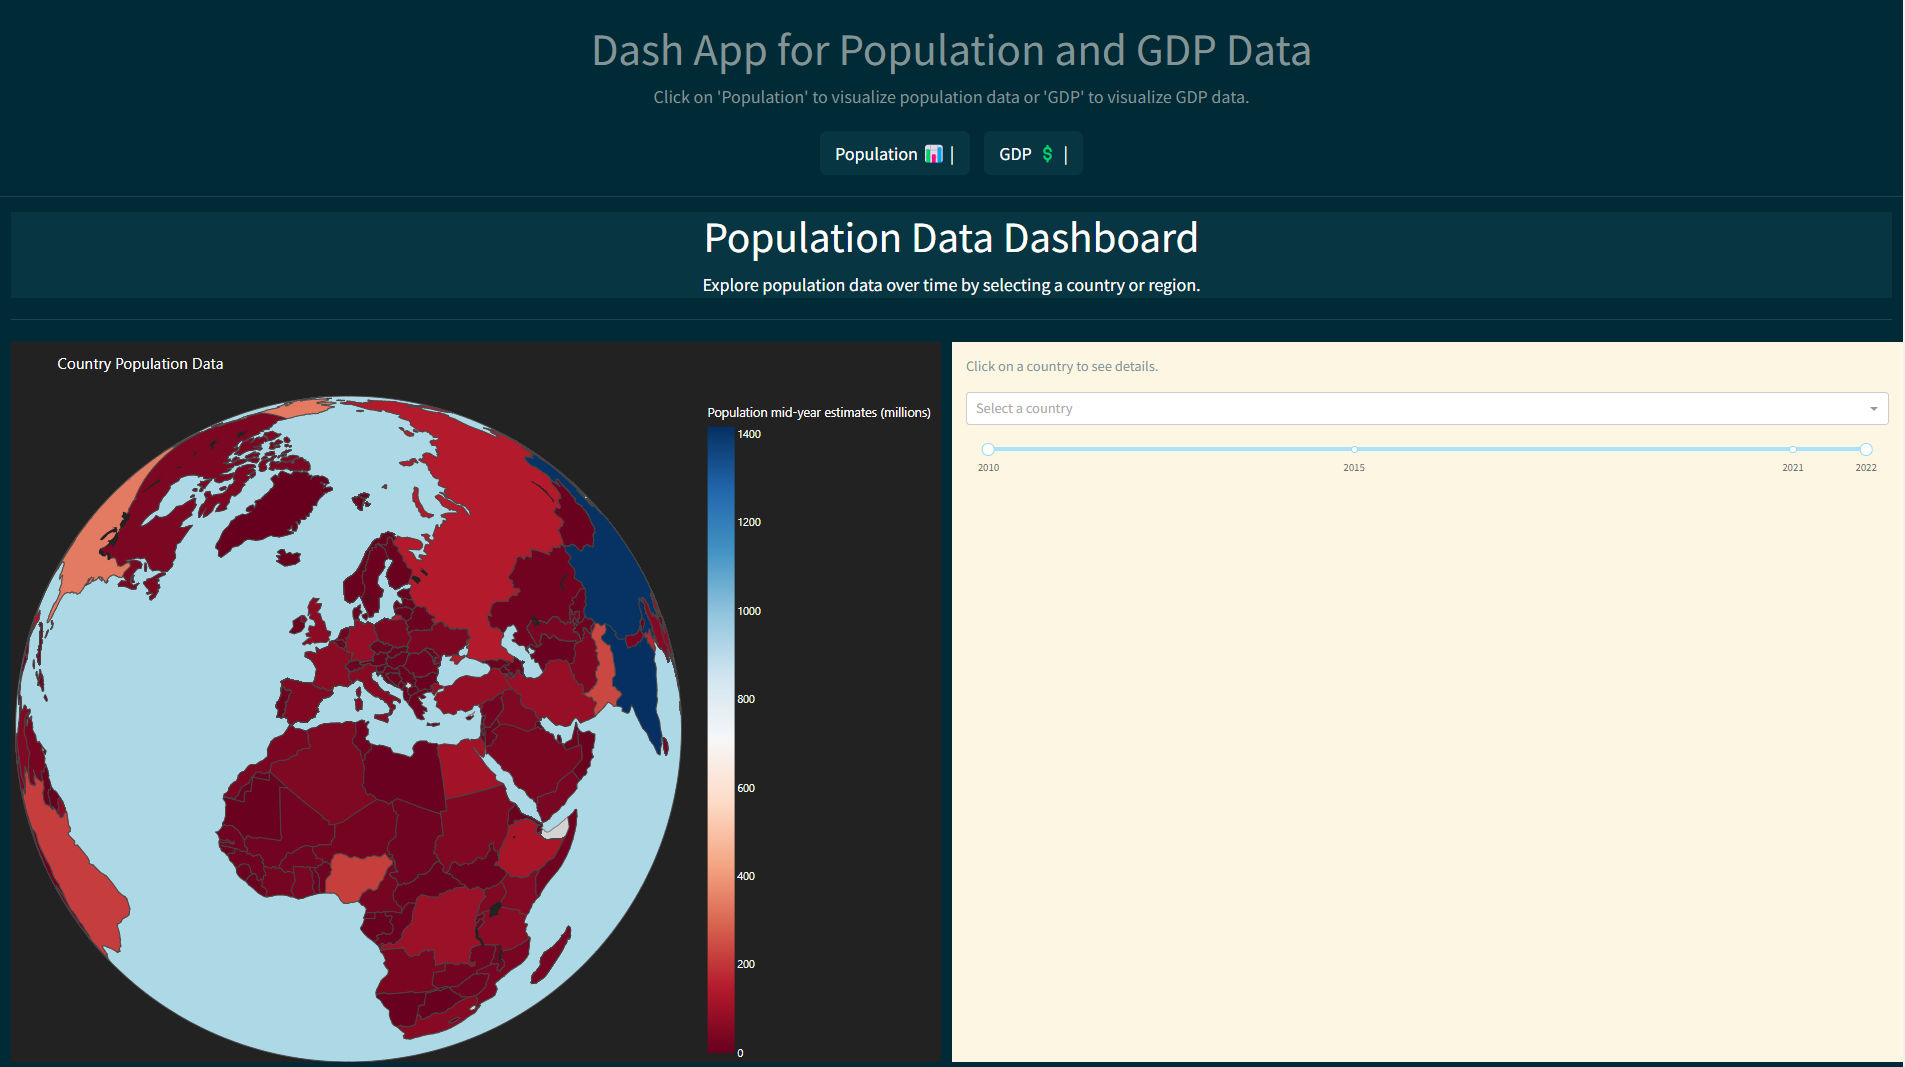
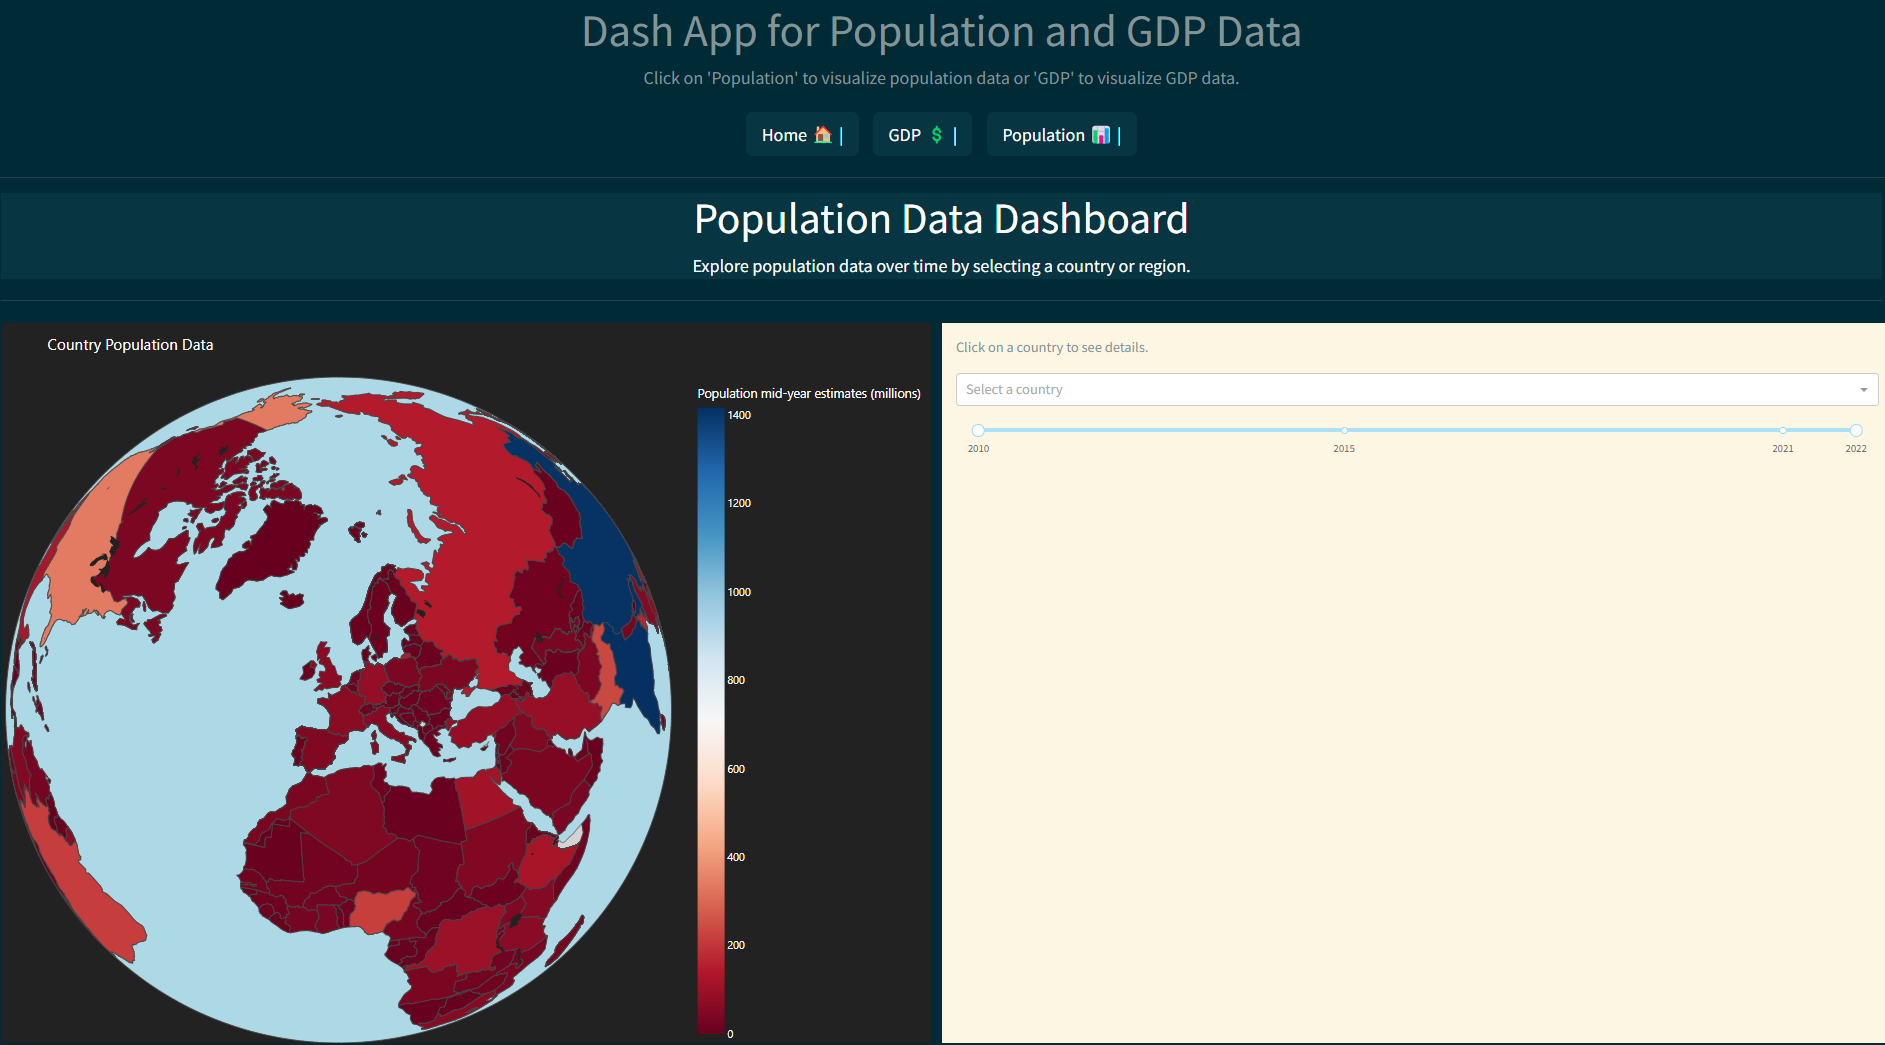
Add a Home Page

Changed region(s): [[0.0, 0.3062, 1.0, 1.0], [0.3077, 0.0, 0.7077, 0.1531], [0.3692, 0.1837, 0.6462, 0.2756]]

diff --git a/pages/Home.py b/pages/Home.py
@@ -1,0 +1,113 @@
+import dash
+from dash import dcc, html
+
+# Register the page
+dash.register_page(__name__, path='/', name='Home 🏠')
+
+layout = html.Div(
+    className='container-fluid',
+    children=[
+        html.Div(
+            className='jumbotron jumbotron-fluid bg-dark text-light',
+            children=[
+                html.Div(
+                    className='container-fluid',
+                    children=[
+                        html.H1(
+                            "Welcome to the Population and GDP Dashboards",
+                            className='display-2 mb-4',
+                            style={'fontWeight': 'bold', 'fontSize': '4rem'}
+                        ),
+                        html.P(
+                            "Explore the interactive dashboards designed to provide valuable insights into "
+                            "global and regional population and GDP data. Dive into trends, comparisons, and key "
+                            "metrics.",
+                            className='lead mb-4',
+                            style={'fontSize': '1.5rem'}
+                        ),
+                        html.Hr(className='my-4', style={'borderColor': '#fff'}),
+                        html.P(
+                            "Our Population Dashboard allows you to analyze trends in population growth, "
+                            "examine demographic breakdowns, and compare population statistics across various regions. "
+                            "It offers visualizations and data points to help you understand how populations evolve "
+                            "over time and across different geographies.",
+                            className='mb-4',
+                            style={'fontSize': '1.25rem'}
+                        ),
+                        html.P(
+                            "The GDP Dashboard, on the other hand, provides a comprehensive view of economic "
+                            "performance. You can explore GDP growth rates, per capita GDP, and regional economic "
+                            "disparities. This dashboard helps you gain insights into economic trends and how "
+                            "different regions compare in terms of economic development.",
+                            className='mb-4',
+                            style={'fontSize': '1.25rem'}
+                        ),
+                        html.Div(
+                            className='row gx-5 my-4',
+                            children=[
+                                html.Div(
+                                    className='col-lg-6 mb-4',
+                                    children=[
+                                        html.Img(
+                                            src='/assets/Screenshots/GDP-Home.png',
+                                            className='img-fluid rounded',
+                                            style={
+                                                'maxWidth': '100%',
+                                                'border': '2px solid #ddd',
+                                                'boxShadow': '0 4px 8px rgba(0, 0, 0, 0.2)'
+                                            }
+                                        ),
+                                        html.P(
+                                            "The GDP Dashboard presents a detailed analysis of economic "
+                                            "performance. Examine GDP growth, per capita GDP, and disparities to "
+                                            "understand global economic trends better.",
+                                            className='text-light mt-2',
+                                            style={'fontSize': '1.25rem'}
+                                        ),
+                                        dcc.Link(
+                                            html.Button(
+                                                "Explore GDP Data",
+                                                className='btn btn-secondary btn-lg mx-2',
+                                                style={'padding': '15px 30px', 'fontSize': '1.5rem'}
+                                            ),
+                                            href='/gdp'
+                                        )
+                                    ]
+                                ),
+                                html.Div(
+                                    className='col-lg-6 mb-4',
+                                    children=[
+                                        html.Img(
+                                            src='/assets/Screenshots/Population-Home.png',
+                                            className='img-fluid rounded',
+                                            style={
+                                                'maxWidth': '100%',
+                                                'border': '2px solid #ddd',
+                                                'boxShadow': '0 4px 8px rgba(0, 0, 0, 0.2)'
+                                            }
+                                        ),
+                                        html.P(
+                                            "The Population Dashboard provides a detailed view of global "
+                                            "population trends. Visualize how populations change over time and how "
+                                            "they compare across different regions.",
+                                            className='text-light mt-2',
+                                            style={'fontSize': '1.25rem'}
+                                        ),
+                                        dcc.Link(
+                                            html.Button(
+                                                "Explore Population Data",
+                                                className='btn btn-primary btn-lg mx-2',
+                                                style={'padding': '15px 30px', 'fontSize': '1.5rem'}
+                                            ),
+                                            href='/population'
+                                        )
+                                    ]
+                                )
+                            ]
+                        )
+                    ]
+                )
+            ]
+        )
+    ]
+)

diff --git a/app.py b/app.py
@@ -12,13 +12,13 @@ load_figure_template("darkly")
 app.layout = html.Div(
     [
         html.Br(),
-        html.H1("Dash App for Population and GDP Data", style={'fontSize': 50, 'textAlign': 'center'}),
+        html.H1("Dash App for Population and GDP Data", style={'fontSize': 72, 'textAlign': 'center'}),
 
         # Additional text with instructions
         html.Div(
             [
                 html.P("Click on 'Population' to visualize population data or 'GDP' to visualize GDP data.",
-                       style={'fontSize': 20, 'textAlign': 'center'})
+                       style={'fontSize': 30, 'textAlign': 'center'})
             ]
         ),
 
@@ -27,11 +27,10 @@ app.layout = html.Div(
                 dcc.Link(page['name'] + "  |  ", href=page['path'], className="btn btn-dark m-2 fs-5 btn-lg")
                 for page in dash.page_registry.values()
             ],
-            style={'textAlign': 'center'}  # Center the content horizontally
+            style={'textAlign': 'center'}
         ),
         html.Hr(),
 
-        # Content of each page will be rendered here
         dash.page_container
     ]
 )

diff --git a/pages/Population.py b/pages/Population.py
@@ -5,9 +5,8 @@ import plotly.express as px
 import pandas as pd
 from dash_bootstrap_templates import load_figure_template
 
-
 # Register the page
-dash.register_page(__name__, path='/', name='Population 📊')
+dash.register_page(__name__, path='/population', name='Population 📊')
 
 load_figure_template("darkly")
 

diff --git a/README.md b/README.md
@@ -1,6 +1,6 @@
 # Population and GDP Data Visualization Dashboard
 
-![Population and GDP Data Visualization Dashboard](assets/Screenshots/1-Overview.png)
+![Population and GDP Data Visualization Dashboard](assets/Screenshots/Home.png)
 
 This repository contains a multi-page Dash web application designed to visualize population and GDP data interactively. The app provides insights into demographic trends, economic indicators, and geographic distributions through interactive maps and various types of charts. It is deployed on Heroku and PythonAnywhere.
 
@@ -93,11 +93,15 @@ To run this application locally:
 
 ![GDP Page](assets/Screenshots/GDP_GIF.gif)
 
+**This image displays a map showing GDP data worldwide.**
+![GDP Page](assets/Screenshots/GDP1.png)
+
+
 **This image presents a map displaying GDP data when a specific country is selected.**
 
-![GDP Page](assets/Screenshots/GDP1.png)
+![GDP Page](assets/Screenshots/GDP2.png)
 
 
 **This image shows additional visualizations and figures related to GDP data.**
 
-![GDP Page](assets/Screenshots/GDP2.png)
+![GDP Page](assets/Screenshots/GDP3.png)
